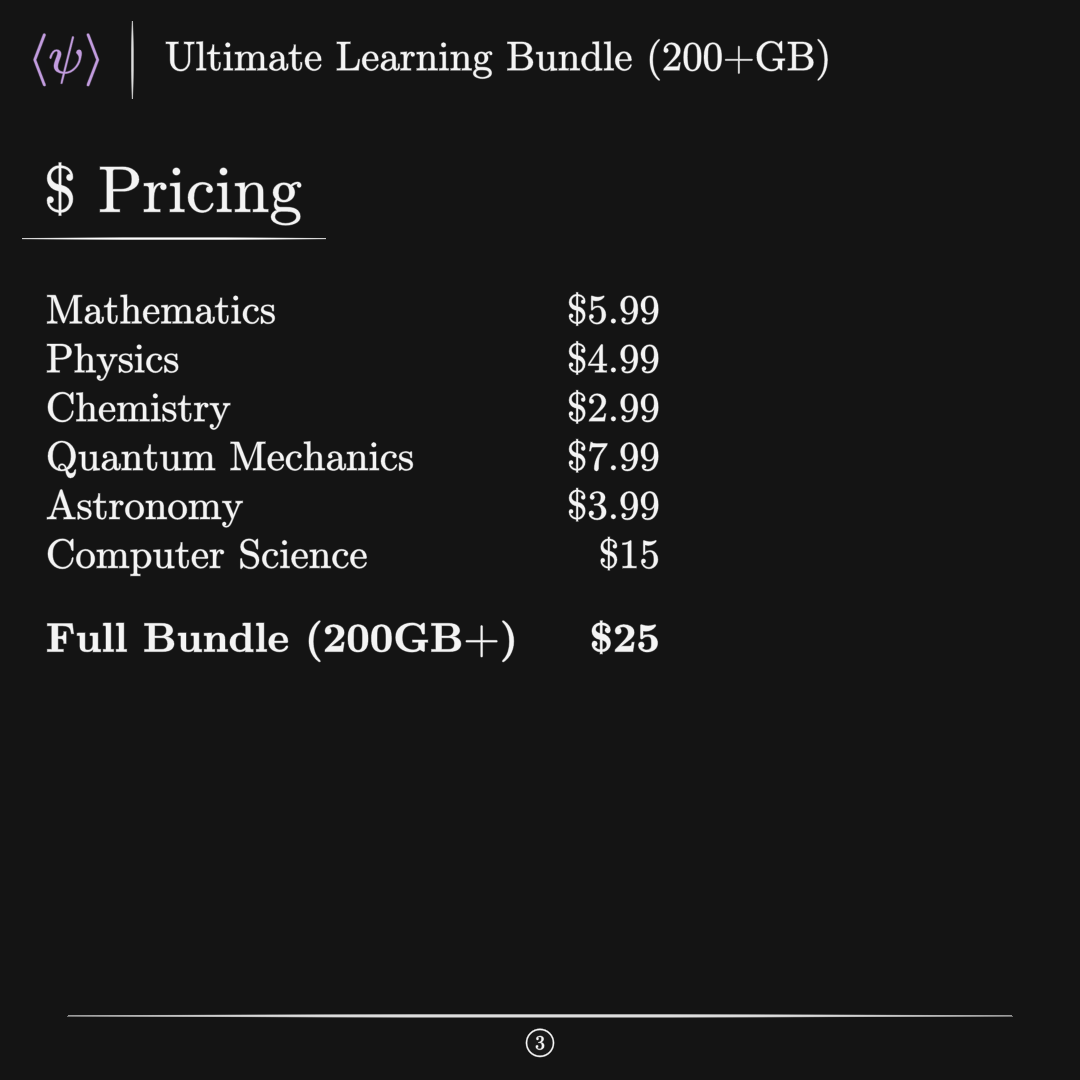
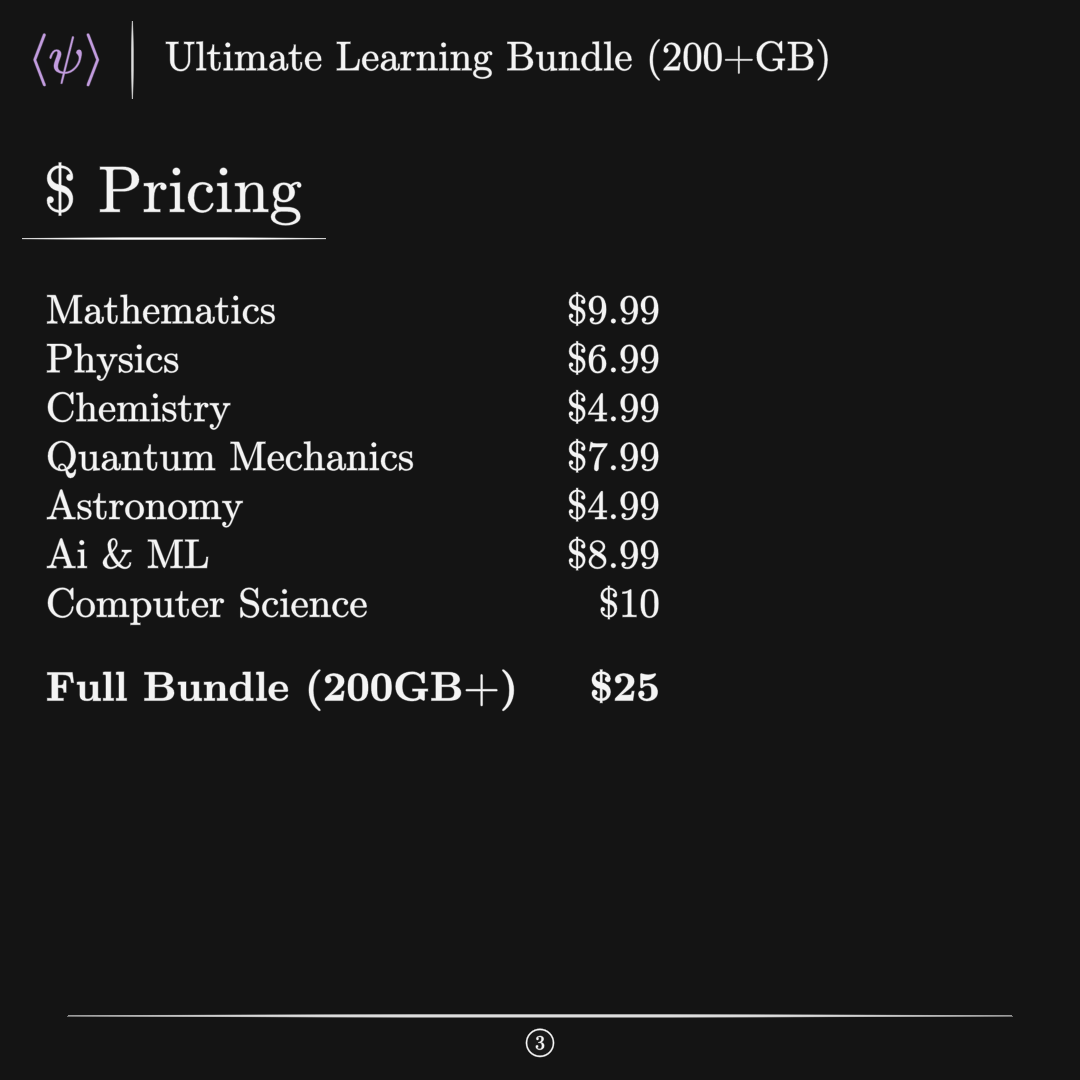
f

Changed region(s): [[0.0306, 0.4889, 0.4889, 0.6722], [0.5194, 0.4583, 0.6111, 0.6722], [0.55, 0.275, 0.5806, 0.3972]]

diff --git a/test.py b/test.py
@@ -134,12 +134,13 @@ class Pricing(PaidTemplate):
         self.add(price, under)
         pricing = TexText(r"""
             \begin{tabular}{lr}
-            Mathematics & \$5.99\\
-            Physics & \$4.99\\
-            Chemistry & \$2.99\\
+            Mathematics & \$9.99\\
+            Physics & \$6.99\\
+            Chemistry & \$4.99\\
             Quantum Mechanics & \$7.99\\
-            Astronomy & \$3.99\\
-            Computer Science & \$15\\[0.3cm]
+            Astronomy & \$4.99\\
+            Ai \& ML & \$8.99\\
+            Computer Science & \$10\\[0.3cm]
             \textbf{Full Bundle (200GB+)} & \textbf{\$25}
             \end{tabular}
             """, font_size=30)

diff --git a/latex_cache/working.tex b/latex_cache/working.tex
@@ -27,6 +27,15 @@
 \begin{document}
 
 \centering
-\$ Pricing
+\begin{tabular}{lr}
+            Mathematics & \$9.99\\
+            Physics & \$6.99\\
+            Chemistry & \$4.99\\
+            Quantum Mechanics & \$7.99\\
+            Astronomy & \$4.99\\
+            Ai \& ML & \$8.99\\
+            Computer Science & \$10\\[0.3cm]
+            \textbf{Full Bundle (200GB+)} & \textbf{\$25}
+            \end{tabular}
 
 \end{document}
